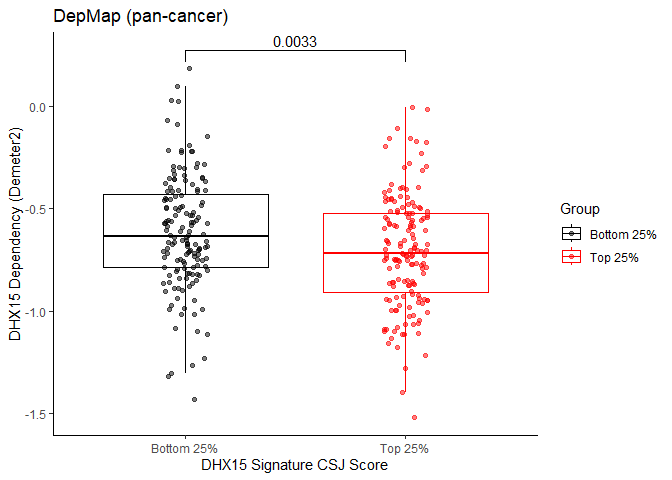
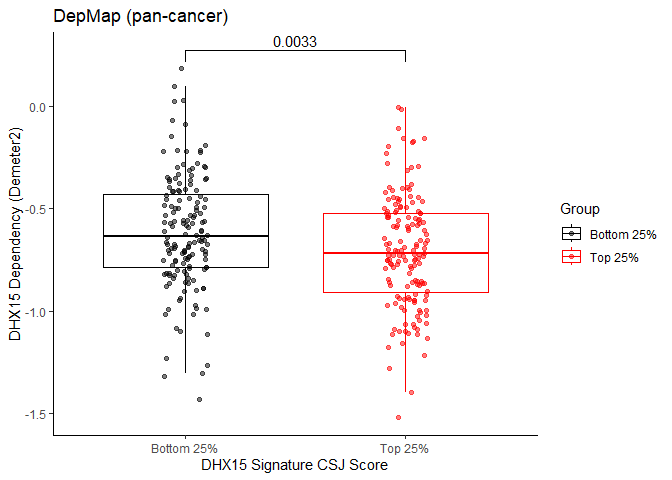
add legend to figure6

diff --git a/code/figure6_2.md b/code/figure6_2.md
@@ -12,6 +12,13 @@ library(viridis)
 
 ### Figure 6A
 
+DHX15 signature cryptic splice sites are spliced at increased proportion
+upon DHX15 degradation in both SUM159 and LM2 FKBP-DHX15 cells. (A) Heat
+map depicts proportion of cryptic splicing in SUM159 and LM2 FKBP-DHX15
+cells with DMSO or dTAG13 treatment. Average proportion of cryptic
+junction usage across the 122 signature junctions was calculated as the
+“DHX15 signature CSJ score”.
+
 ``` r
 # Define functions ####
 get_counts <- function(files, junxs) {
@@ -100,6 +107,13 @@ p <- pheatmap(tmp,
 
 ### Figure 6C
 
+Increased levels of DHX15 degradation results in dose-dependent increase
+in DHX15 signature CSJ score. Box plot shows CSJ score upon DMSO and
+increasing dTAG13 treatment (median (line), Q1 to Q3 quartile values
+(boundaries of the box), and range (whiskers), n=3 biological replicates
+per condition) p=6.8e-06 by linear model where dosage is encoded as an
+ordinal variable.
+
 ``` r
 score <- fread(paste0("../data/dtag_experiments/",
          "CSJ_signature_score_sum159_dosage_score.tsv"))
@@ -123,6 +137,11 @@ ggplot(aframe,
 ![](figure6_2_files/figure-markdown_github/figure6_C-1.png)
 
 ### Figure 6D
+
+Degradation of DHX15 uniquely increases DHX15 signature CSJ score. Box
+plot represents CSJ score after 9hrs of target degradation (median
+(line), Q1 to Q3 quartile values (boundaries of the box), and range
+(whiskers), n=3 biological replicates per condition).
 
 ``` r
 # UJ score vs target specificity ####
@@ -158,6 +177,12 @@ ggplot(aframe,
 ![](figure6_2_files/figure-markdown_github/figure6_D-1.png)
 
 ### Figure 6E
+
+DHX15(R222G) does not suppress increased DHX15 signature CSJ score
+induced by DHX15 degradation. Box plot represents CSJ score after 6hrs
+of dTAG treatment (median (line), Q1 to Q3 quartile values (boundaries
+of the box), and range (whiskers), n=3 biological replicates per
+condition).
 
 ``` r
 meta <- fread("../data/r222g_mutant/CSJ_signature_score_r222g_mutant_meta.tsv")
@@ -209,6 +234,11 @@ aframe$lineage <- factor(aframe$lineage, levels = lvs)
 
 ### Figure 6F
 
+DHX15 signature is upregulated in cancer cells vs normal. Box plot
+depicts DHX15 signature CSJ score in panel of tumor and normal cell
+lines (median (line), Q1 to Q3 quartile values (boundaries of the box),
+and range (whiskers).
+
 ``` r
 # Fibroblasts vs rest - Boxplot ####
 ggplot(aframe[aframe$lineage %in% good_tissues, ],
@@ -233,6 +263,12 @@ ggplot(aframe[aframe$lineage %in% good_tissues, ],
 
 ### Figure 6G
 
+DHX15 signature CSJ score correlates with dependency on DHX15
+pan-cancer. Box plot of DHX15 dependency (measured by Demeter2 score of
+shRNA screen) for cell lines in the bottom and top quartile of CSJ score
+(median (line), Q1 to Q3 quartile values (boundaries of the box), and
+range (whiskers)).
+
 ``` r
 # Figure 6 G
 aframe$Group <- aframe$bins
@@ -252,8 +288,15 @@ ggplot(aframe[aframe$Group %in% c("Bottom 25%", "Top 25%"), ],
 
     ## [1] FALSE
 
-![](figure6_2_files/figure-markdown_github/Figure6_G-1.png) \### Figure
-6H
+![](figure6_2_files/figure-markdown_github/Figure6_G-1.png)
+
+### Figure 6H
+
+DHX15 signature CSJ score correlates with dependency on DHX15 in breast
+cancer cell lines. Box plot of DHX15 dependency (measured by Demeter2
+score of shRNA screen) for cell lines in the bottom and top tertile of
+CSJ score (median (line), Q1 to Q3 quartile values (boundaries of the
+box), and range (whiskers).
 
 ``` r
 # Quartile low vs high CJ score vs dependency - BRCA only #####
